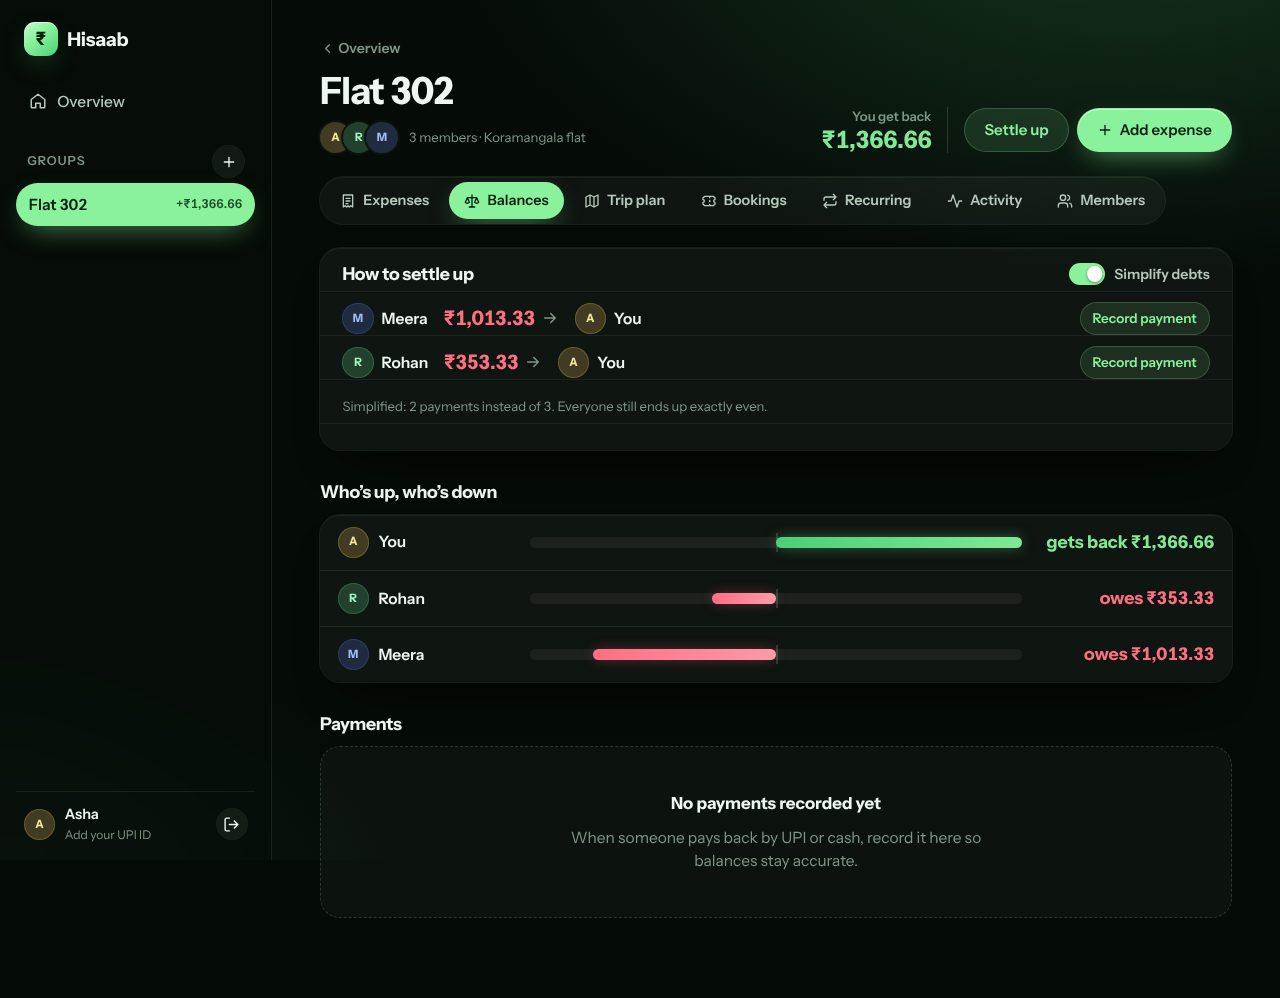
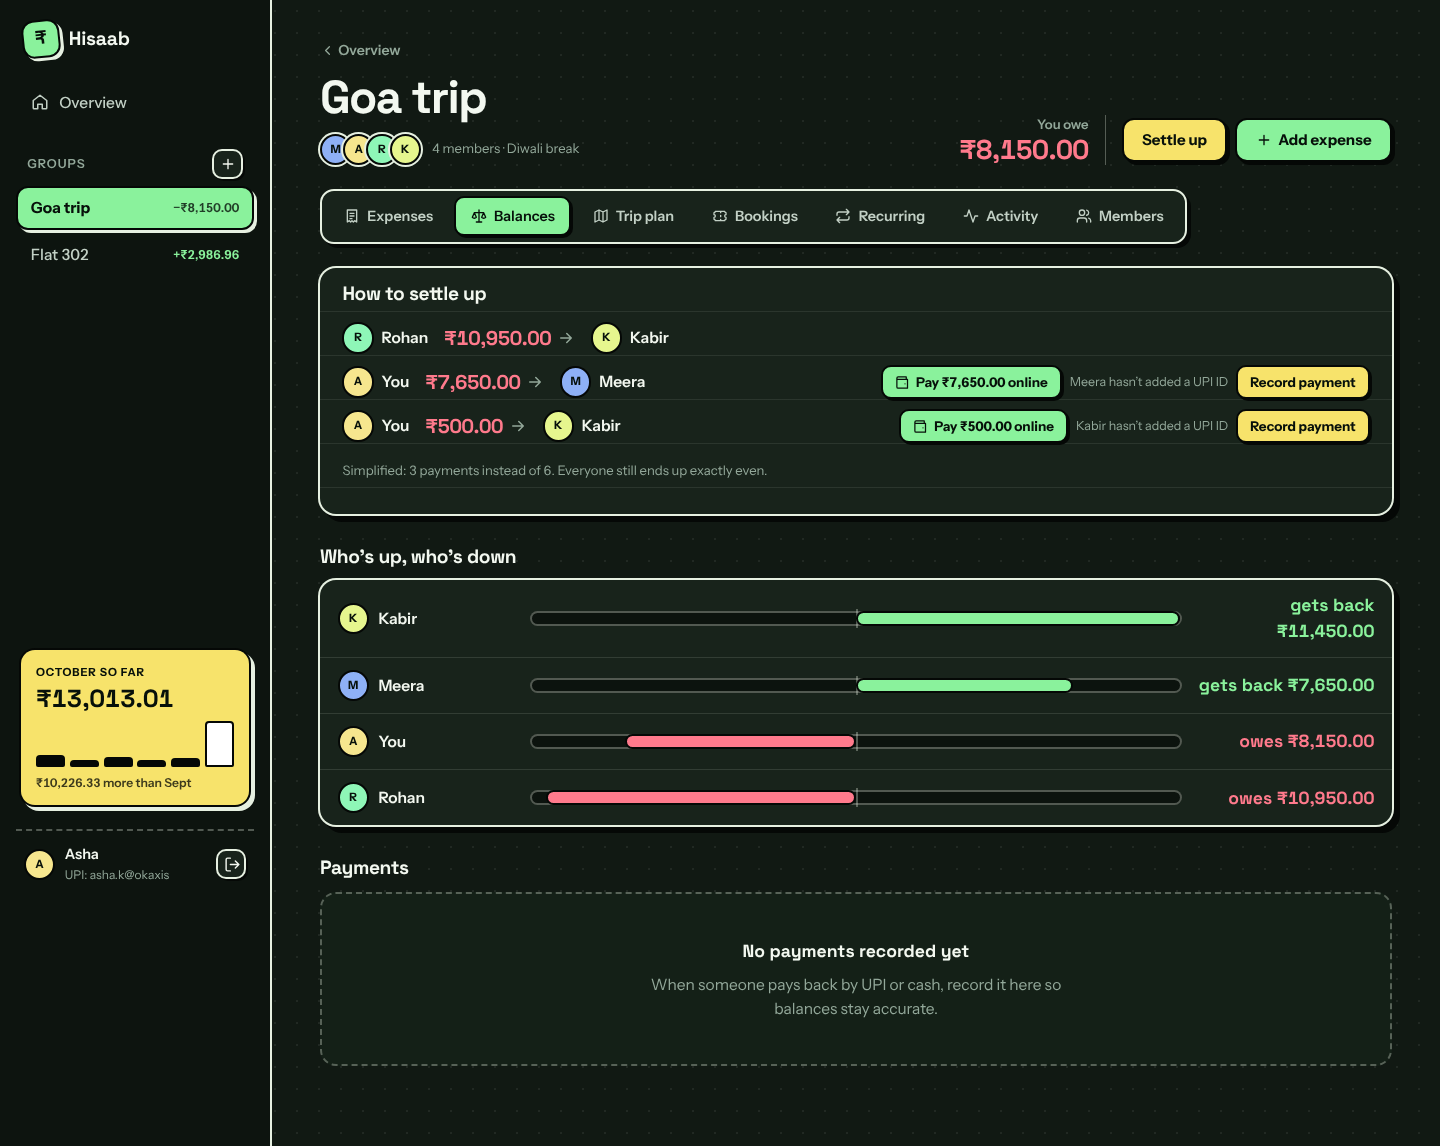
README: dashboard insights, overview API, refreshed screenshots
- "Your money at a glance" described on top of the five core workflows
- Architecture and folder map include the me route, overview service
  and dashboard components; engineering note on how insights are
  computed; test count 53
- Screenshots retaken in the neo-brutalist theme with a seeded account
  (dashboard, group at a glance, balances, trip, mobile, log in)

diff --git a/README.md b/README.md
@@ -10,17 +10,17 @@ Repository: https://github.com/sanjyotbodhe/hisaab
 
 ## Screenshots
 
-| Overview                                        | Trip plan: itinerary, group votes, map, famous places |
-| ----------------------------------------------- | ----------------------------------------------------- |
-| ![Overview](docs/screenshots/dashboard.png)     | ![Trip plan](docs/screenshots/trip-plan.png)          |
-| **Balances and settle-up plan**                 | **Pay via UPI (QR on laptops, app link on phones)**   |
-| ![Balances](docs/screenshots/balances.png)      | ![UPI](docs/screenshots/upi.png)                      |
-| **Bookings vault**                              | **Expenses with search and filters**                  |
-| ![Bookings](docs/screenshots/bookings.png)      | ![Expenses](docs/screenshots/expenses.png)            |
-| **Paid online through Razorpay (verified)**     | **Edit conflict detected**                            |
-| ![Paid online](docs/screenshots/pay-online.png) | ![Edit conflict](docs/screenshots/edit-conflict.png)  |
-| **Mobile**                                      |                                                       |
-| ![Mobile](docs/screenshots/mobile.png)          |                                                       |
+| Overview: balance, insights carousel, spending, coming up | Trip plan: itinerary, group votes, map, famous places |
+| --------------------------------------------------------- | ----------------------------------------------------- |
+| ![Overview](docs/screenshots/dashboard.png)               | ![Trip plan](docs/screenshots/trip-plan.png)          |
+| **Balances and settle-up plan**                           | **Pay via UPI (QR on laptops, app link on phones)**   |
+| ![Balances](docs/screenshots/balances.png)                | ![UPI](docs/screenshots/upi.png)                      |
+| **Bookings vault**                                        | **Expenses with filters, and the group at a glance**  |
+| ![Bookings](docs/screenshots/bookings.png)                | ![Expenses](docs/screenshots/expenses.png)            |
+| **Paid online through Razorpay (verified)**               | **Edit conflict detected**                            |
+| ![Paid online](docs/screenshots/pay-online.png)           | ![Edit conflict](docs/screenshots/edit-conflict.png)  |
+| **Mobile**                                                | **Log in**                                            |
+| ![Mobile](docs/screenshots/mobile.png)                    | ![Log in](docs/screenshots/sign-up.png)               |
 
 ## Problem statement
 
@@ -48,6 +48,8 @@ For trips, the same group gets a shared plan: destination, dates and budget; a d
 4. **Plan the trip together.** Destination, dates and budget for the group. A day-by-day itinerary, an ideas list the group **votes** on before scheduling, and a **map** (OpenStreetMap) with numbered pins for the plan and the **famous places near the destination** (from Wikipedia, with photos), each addable in one tap. Every stop has a Google Maps directions link.
 5. **Bookings and budget.** Save flight / train / bus / stay / activity confirmations (PNR, times, cost, who paid) where the whole group can see them. **Add as expense** turns a booking into an equal split exactly once. "Find and book" links open Google Flights, Booking.com, IRCTC and redBus pre-filled with the trip's destination and dates. The budget tracker shows spent vs budget and a breakdown by category.
 
+**On top of the five workflows: your money at a glance.** The overview adds up _your share_ across every group (not just what you happened to pay): an insights carousel (this month vs last, top category, biggest expense, next trip or bill, who to settle with), six months of spending with a category breakdown, what's coming up in the next 45 days (trip dates, rent and other recurring bills) and the latest activity from all your groups. Each group shows the same at its own level: total, per person, monthly trend, where the money went and who paid.
+
 ## Tech stack
 
 | Layer      | Choice                                                         | Why                                                                                              |
@@ -74,8 +76,8 @@ flowchart LR
   subgraph Vercel project - one domain
     CL[client service<br/>Vite static build] -.serves.-> UI
     API[server service<br/>Express, index.js] --> MW[auth · CSRF · zod validation · group membership]
-    MW --> R[routes: auth, groups, invites, expenses, settlements,<br/>recurring, plan, bookings, places, payments]
-    R --> S[services: balances, recurring catch-up, activity, places, razorpay]
+    MW --> R[routes: auth, groups, invites, expenses, settlements,<br/>recurring, plan, bookings, places, payments, me]
+    R --> S[services: balances, overview, recurring catch-up,<br/>activity, places, razorpay]
     S -.uses.-> SH
   end
   S --> DB[(MongoDB Atlas<br/>incl. shared lookup cache)]
@@ -108,14 +110,16 @@ hisaab/
 │   │   │                   # PlanItem, Booking, Payment, ExternalCache
 │   │   ├── routes/         # HTTP layer: validation + authorization + responses
 │   │   ├── services/       # balances (aggregations), recurring job, activity log, places (cache + throttle),
-│   │   │                   # razorpay (orders, signature checks, exactly-once settlement)
+│   │   │                   # razorpay (orders, signature checks, exactly-once settlement),
+│   │   │                   # overview (cross-group insights for the dashboard)
 │   │   ├── middleware/     # auth, CSRF, validation, group membership, errors
 │   │   └── utils/          # errors, calendar dates
 │   └── tests/              # unit + API integration tests
 └── client/                 # "client" service (React + Vite)
     └── src/
         ├── pages/          # Auth, Dashboard, Group, Join
-        ├── components/     # ExpenseForm, SettleForm, TripMap, PlaceSearch, UpiPay, RazorpayPay, group tabs, UI kit
+        ├── components/     # ExpenseForm, SettleForm, TripMap, PlaceSearch, UpiPay, RazorpayPay,
+        │                   # dashboard panels (insights carousel, charts), group tabs, UI kit
         └── lib/            # API client, auth context, toasts, formatting
 ```
 
@@ -140,6 +144,7 @@ hisaab/
 - **One split engine, two places.** `server/src/shared/split.js` runs in the browser for the live preview and on the server as the source of truth, so the preview can never disagree with what gets saved.
 - **Debt simplification.** Net balances are matched greedily (largest debtor ↔ largest creditor). This always settles everyone exactly and uses at most _n − 1_ payments. Finding the true minimum is NP-hard (it reduces to subset-sum), so greedy is the standard practical choice. The UI shows both views and how many payments simplification saves. A randomised property test checks the guarantees on 200 random groups.
 - **Balances are computed, not stored.** Two MongoDB aggregations (`$unwind` splits → `$group` by pair) build the debt graph, so there is no running total that can drift out of sync after edits and deletes.
+- **Insights are computed the same way.** `GET /api/me/overview` runs aggregations over the user's own splits (their share, not what they paid) across all their groups: six months by calendar month with empty months filled in, this month by category, the biggest expense, active recurring rules and trips in the next 45 days, and the latest activity. Due recurring expenses are caught up first, so "this month" is never stale, and the dashboard reloads it whenever balances change.
 - **Idempotent writes.** The client generates a UUID per form; a unique partial index on `(group, clientRequestId)` guarantees a double-click, a retry after a timeout, or two concurrent requests create exactly one expense / payment.
 - **Optimistic concurrency on edits.** An edit only applies if the expense's version is unchanged since it was opened (`findOneAndUpdate` with `__v` in the filter). Otherwise the API returns `409 EDIT_CONFLICT` with the latest version, and the UI offers to load it, so nobody silently overwrites someone else's change.
 - **Atomic invite joins and role changes** with conditional updates (`members.user: {$ne: me}`), so double-clicking Join can't add someone twice.
@@ -212,7 +217,7 @@ npm start            # set NODE_ENV=production in server/.env for secure cookies
 **Tests** (a throwaway in-memory MongoDB is downloaded and started automatically):
 
 ```bash
-npm test             # 50 unit + API integration tests
+npm test             # 53 unit + API integration tests
 npm run format:check # Prettier
 ```
 
